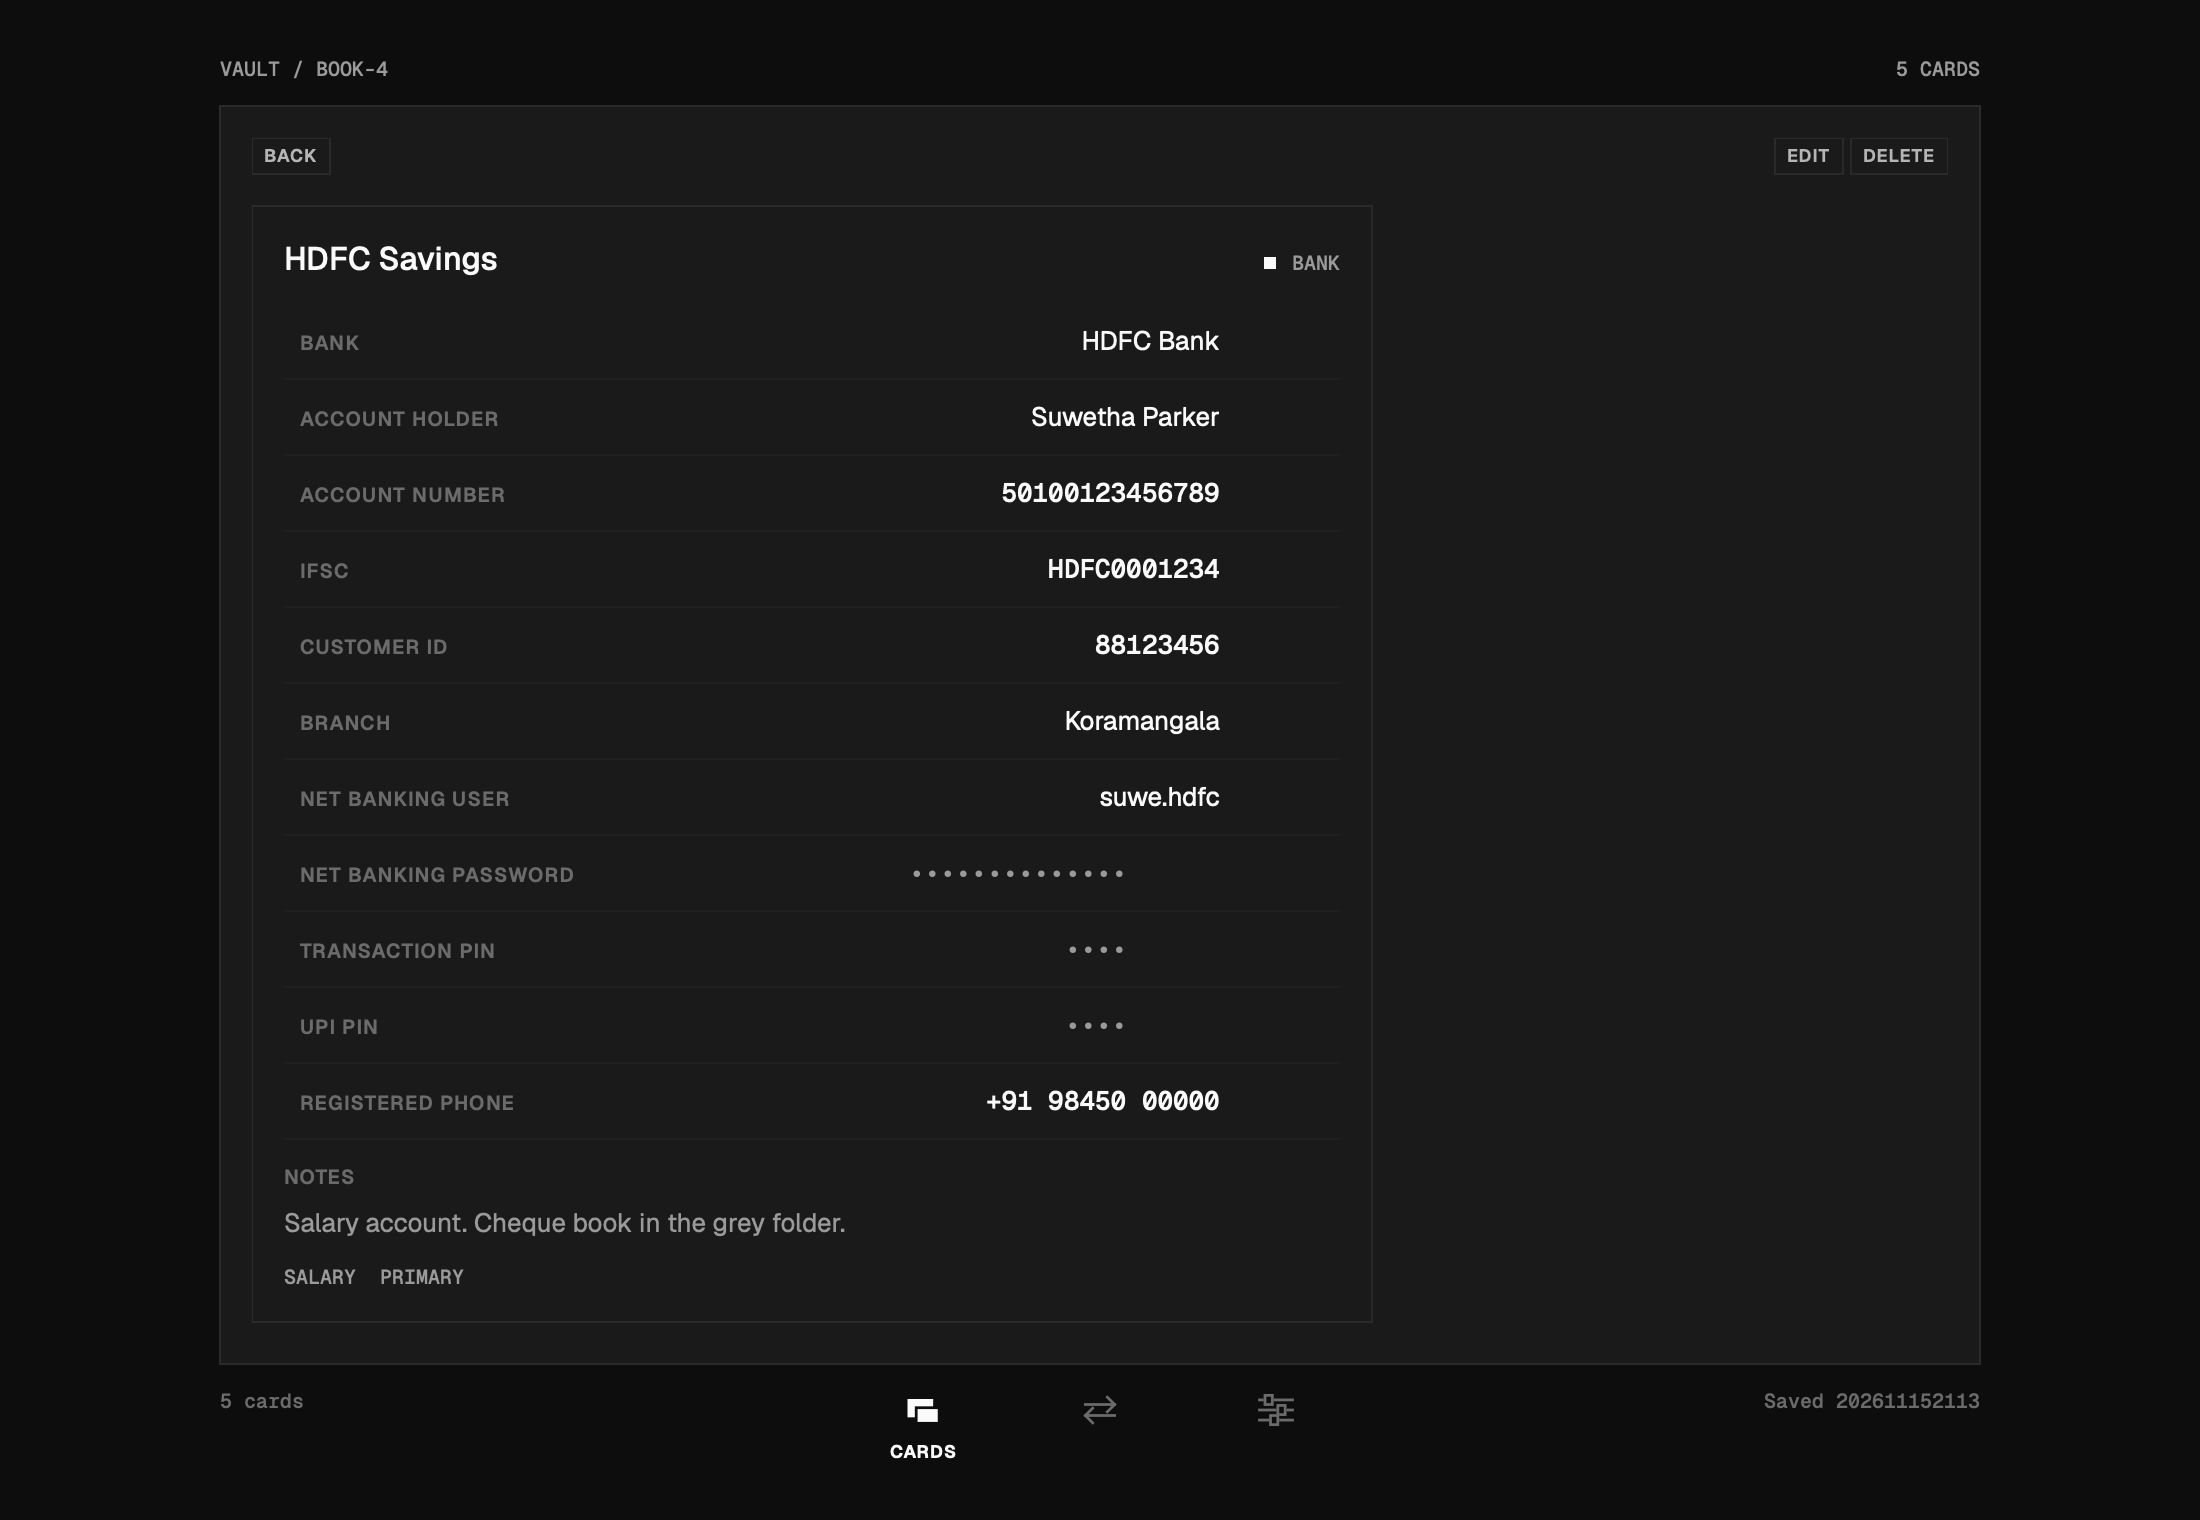
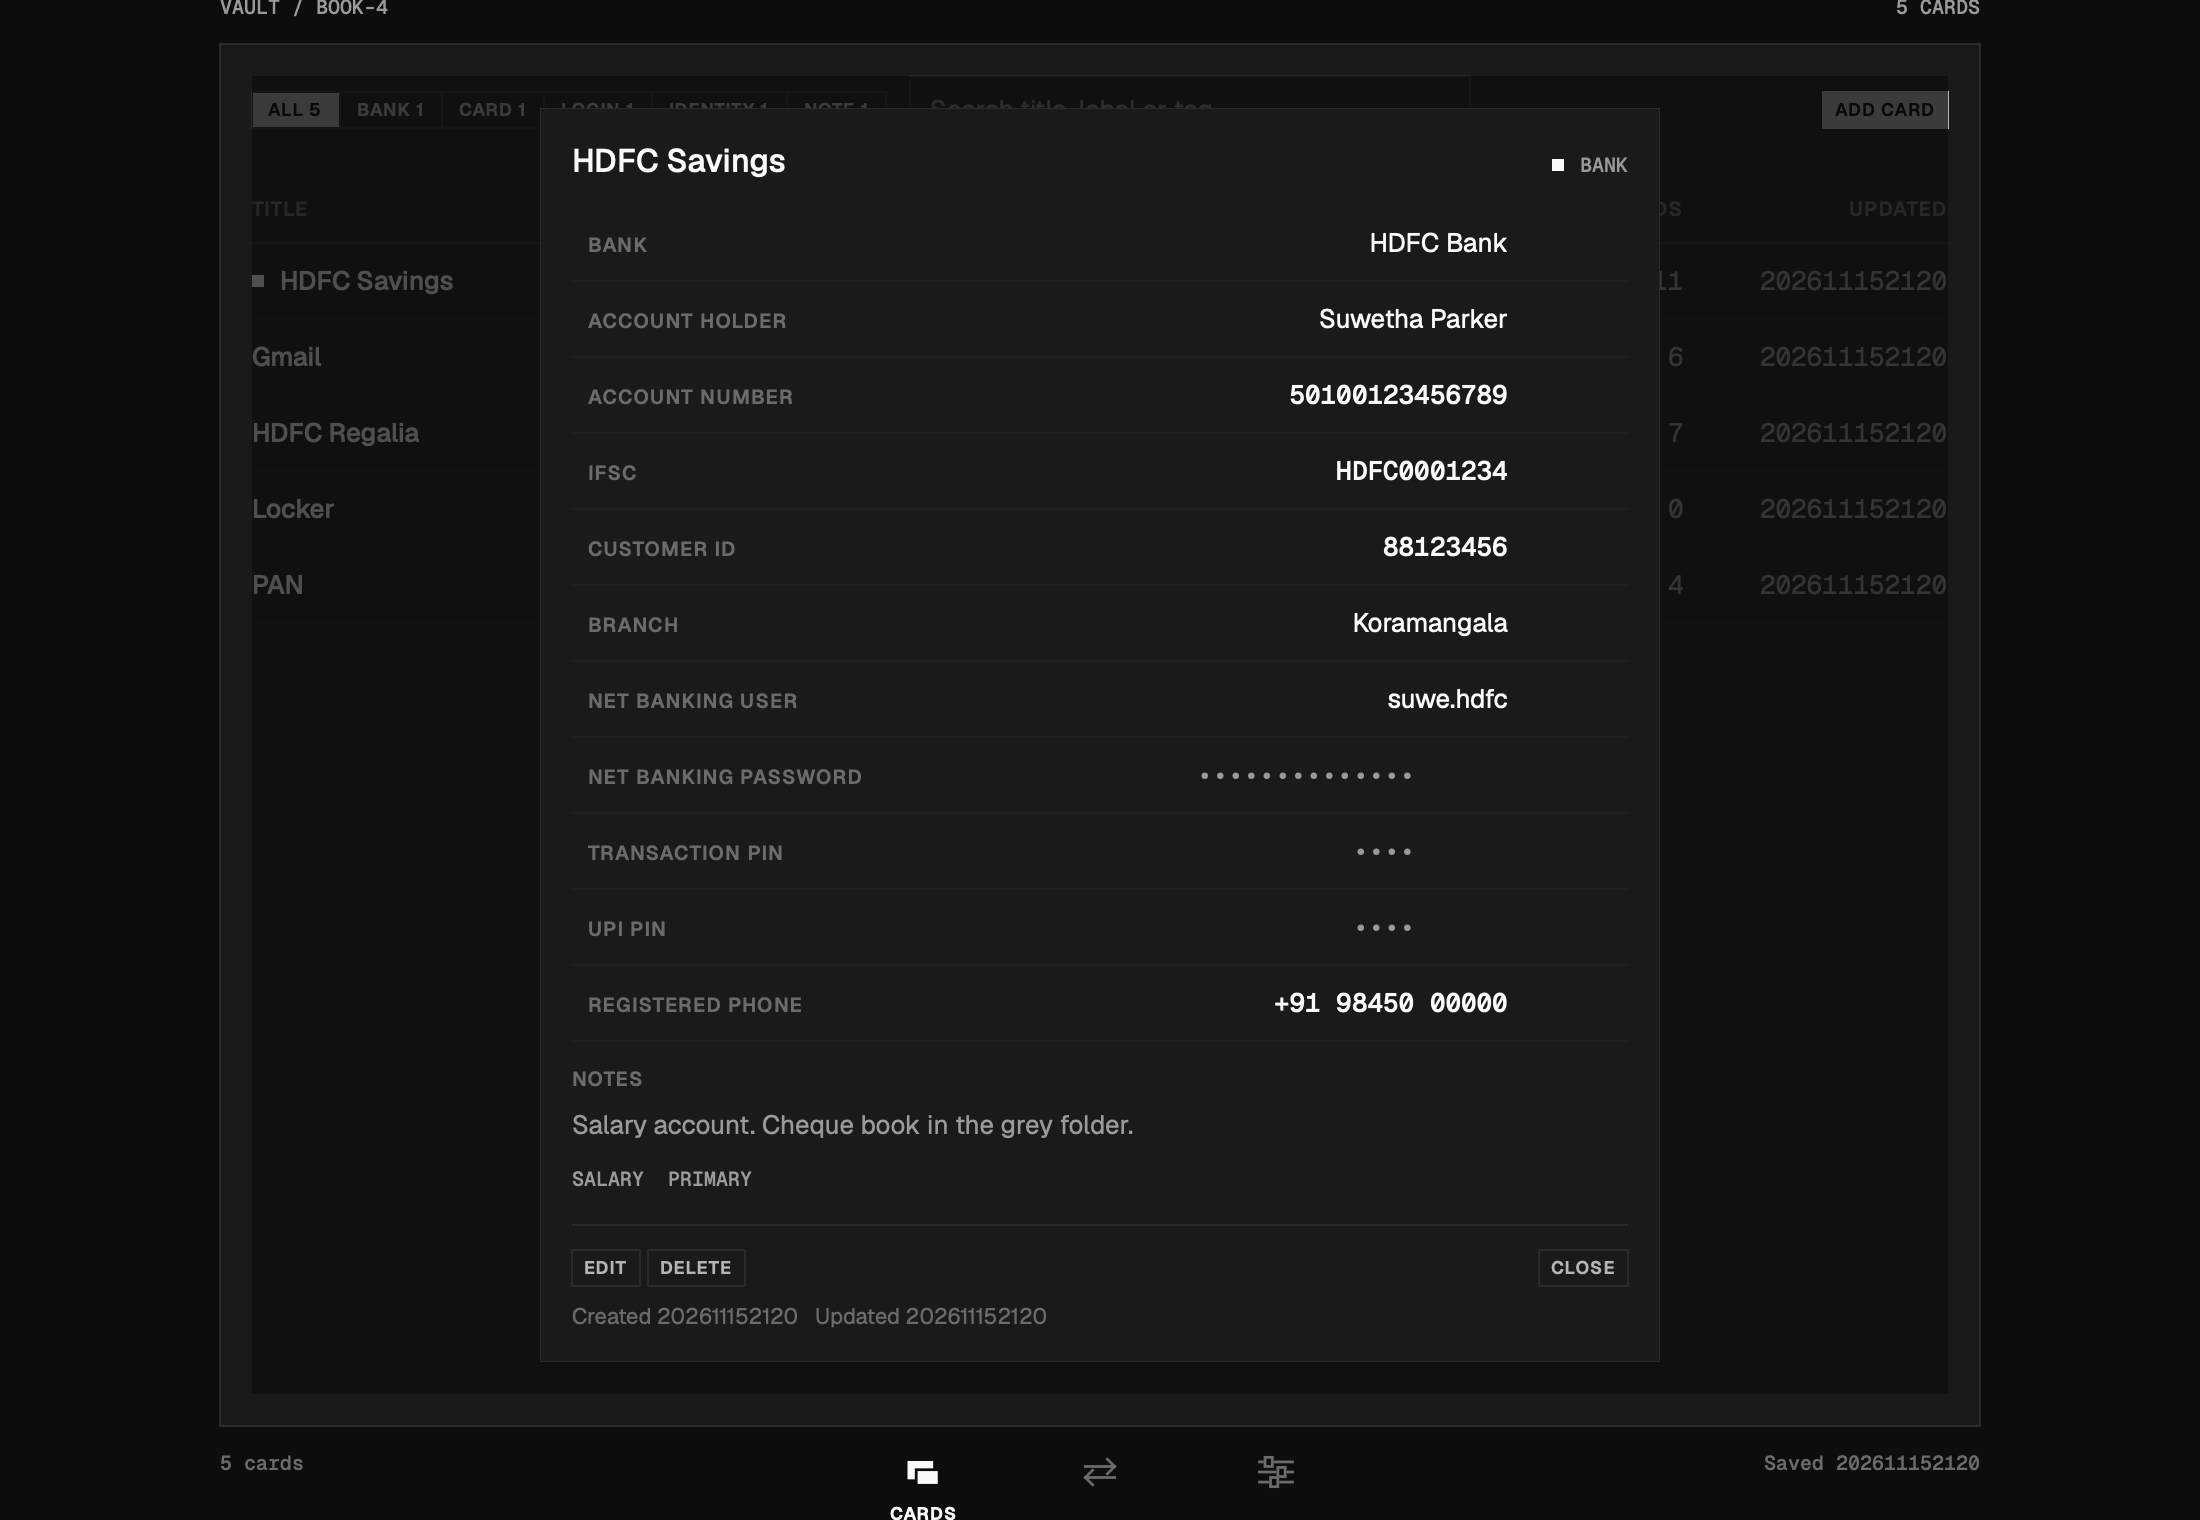
Card opens as an overlay over the list; close by click outside, Esc or CLOSE

diff --git a/Sources/VaultUI/Screens/Cards.swift b/Sources/VaultUI/Screens/Cards.swift
@@ -9,10 +9,20 @@ struct CardsModule: View {
     var body: some View {
         if let draft = model.editingItem {
             CardEditor(model: model, original: draft, isNew: model.item(draft.id) == nil) { model.editingItem = nil }
-        } else if let item = model.item(model.selectedItemID) {
-            CardDetail(model: model, item: item, onEdit: { model.editingItem = item })
         } else {
-            list
+            ZStack {
+                list
+                if let item = model.item(model.selectedItemID) {
+                    // The card floats over the list. Click outside, Esc or CLOSE puts it away.
+                    Tok.bg.opacity(0.72)
+                        .contentShape(Rectangle())
+                        .onTapGesture { model.selectedItemID = nil }
+                    CardDetail(model: model, item: item, onEdit: { model.editingItem = item }, onClose: { model.selectedItemID = nil })
+                        .padding(Type.isPhone ? 0 : Tok.s4)
+                    Button("") { model.selectedItemID = nil }.keyboardShortcut(.cancelAction).frame(width: 0, height: 0).opacity(0)
+                }
+            }
+            .animation(.easeOut(duration: 0.12), value: model.selectedItemID)
         }
     }
 
@@ -132,34 +142,16 @@ struct CardDetail: View {
     @ObservedObject var model: AppModel
     let item: VaultItem
     let onEdit: () -> Void
+    let onClose: () -> Void
     @State private var revealed: Set<UUID> = []
     @State private var confirmDelete = false
 
     private var filled: [VaultField] { item.fields.filter { !$0.value.isEmpty } }
 
     var body: some View {
-        ScrollView {
-            VStack(alignment: .leading, spacing: Tok.s4) {
-                HStack(spacing: Tok.s1) {
-                    OpsButton("Back") { model.selectedItemID = nil }
-                    Spacer()
-                    OpsButton("Edit", action: onEdit)
-                    if confirmDelete {
-                        OpsButton("Confirm delete", kind: .danger) { model.delete(item.id) }
-                        OpsButton("Keep") { confirmDelete = false }
-                    } else {
-                        OpsButton("Delete", kind: .danger) { confirmDelete = true }
-                    }
-                }
-                card
-                HStack {
-                    Text("Created \(Fmt.stamp(item.createdAt))   Updated \(Fmt.stamp(item.modifiedAt))").font(Type.hint()).foregroundStyle(Tok.text3)
-                    Spacer()
-                    StatusLine(model.status, isError: model.statusIsError)
-                }
-                .frame(maxWidth: cardWidth)
-            }
-        }
+        ScrollView(showsIndicators: false) { card }
+            .frame(maxWidth: cardWidth)
+            .fixedSize(horizontal: false, vertical: true)
     }
 
     private var cardWidth: CGFloat { Type.isPhone ? .infinity : 560 }
@@ -196,6 +188,22 @@ struct CardDetail: View {
                 HStack(spacing: Tok.s3) { ForEach(item.tags, id: \.self) { Tag($0) } }
                     .padding(.top, Tok.s3)
             }
+            Rule().padding(.top, Tok.s4)
+            HStack(spacing: Tok.s1) {
+                OpsButton("Edit", action: onEdit)
+                if confirmDelete {
+                    OpsButton("Confirm delete", kind: .danger) { model.delete(item.id) }
+                    OpsButton("Keep") { confirmDelete = false }
+                } else {
+                    OpsButton("Delete", kind: .danger) { confirmDelete = true }
+                }
+                Spacer()
+                StatusLine(model.status, isError: model.statusIsError)
+                OpsButton("Close", action: onClose)
+            }
+            .padding(.top, Tok.s3)
+            Text("Created \(Fmt.stamp(item.createdAt))   Updated \(Fmt.stamp(item.modifiedAt))")
+                .font(Type.hint()).foregroundStyle(Tok.text3).padding(.top, Tok.s2)
         }
         .padding(Tok.s4)
         .frame(maxWidth: cardWidth, alignment: .leading)
